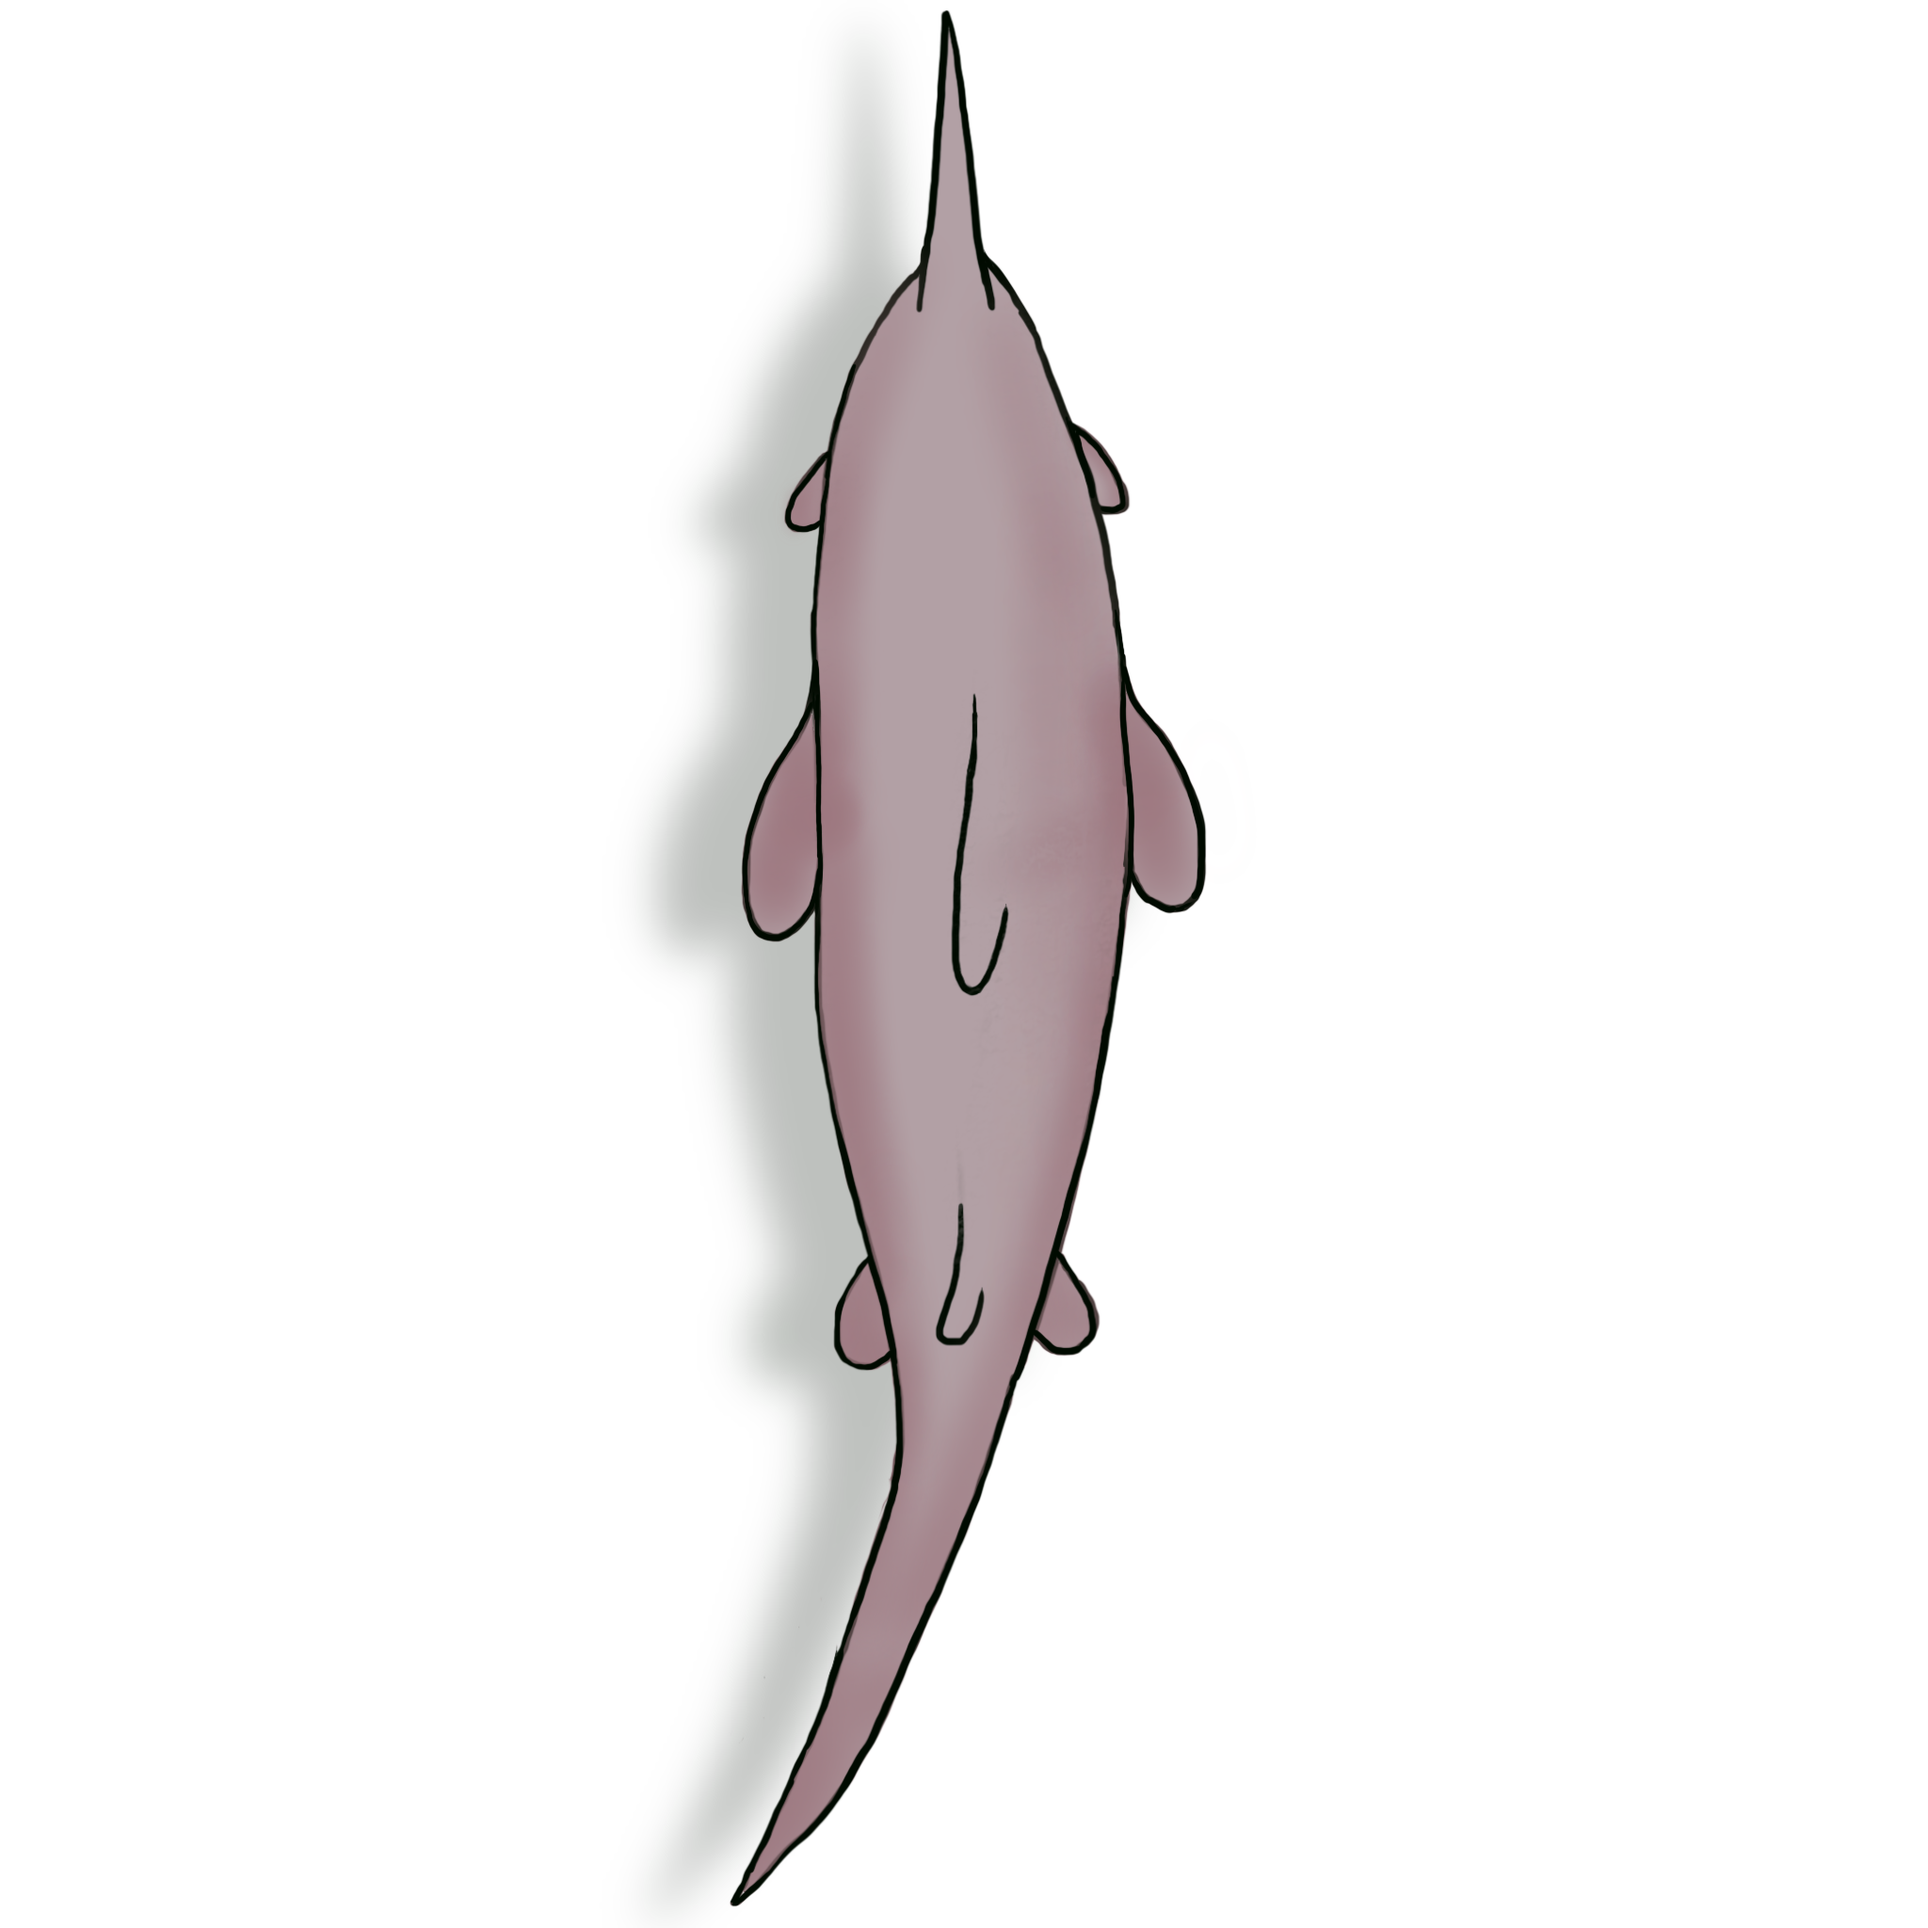
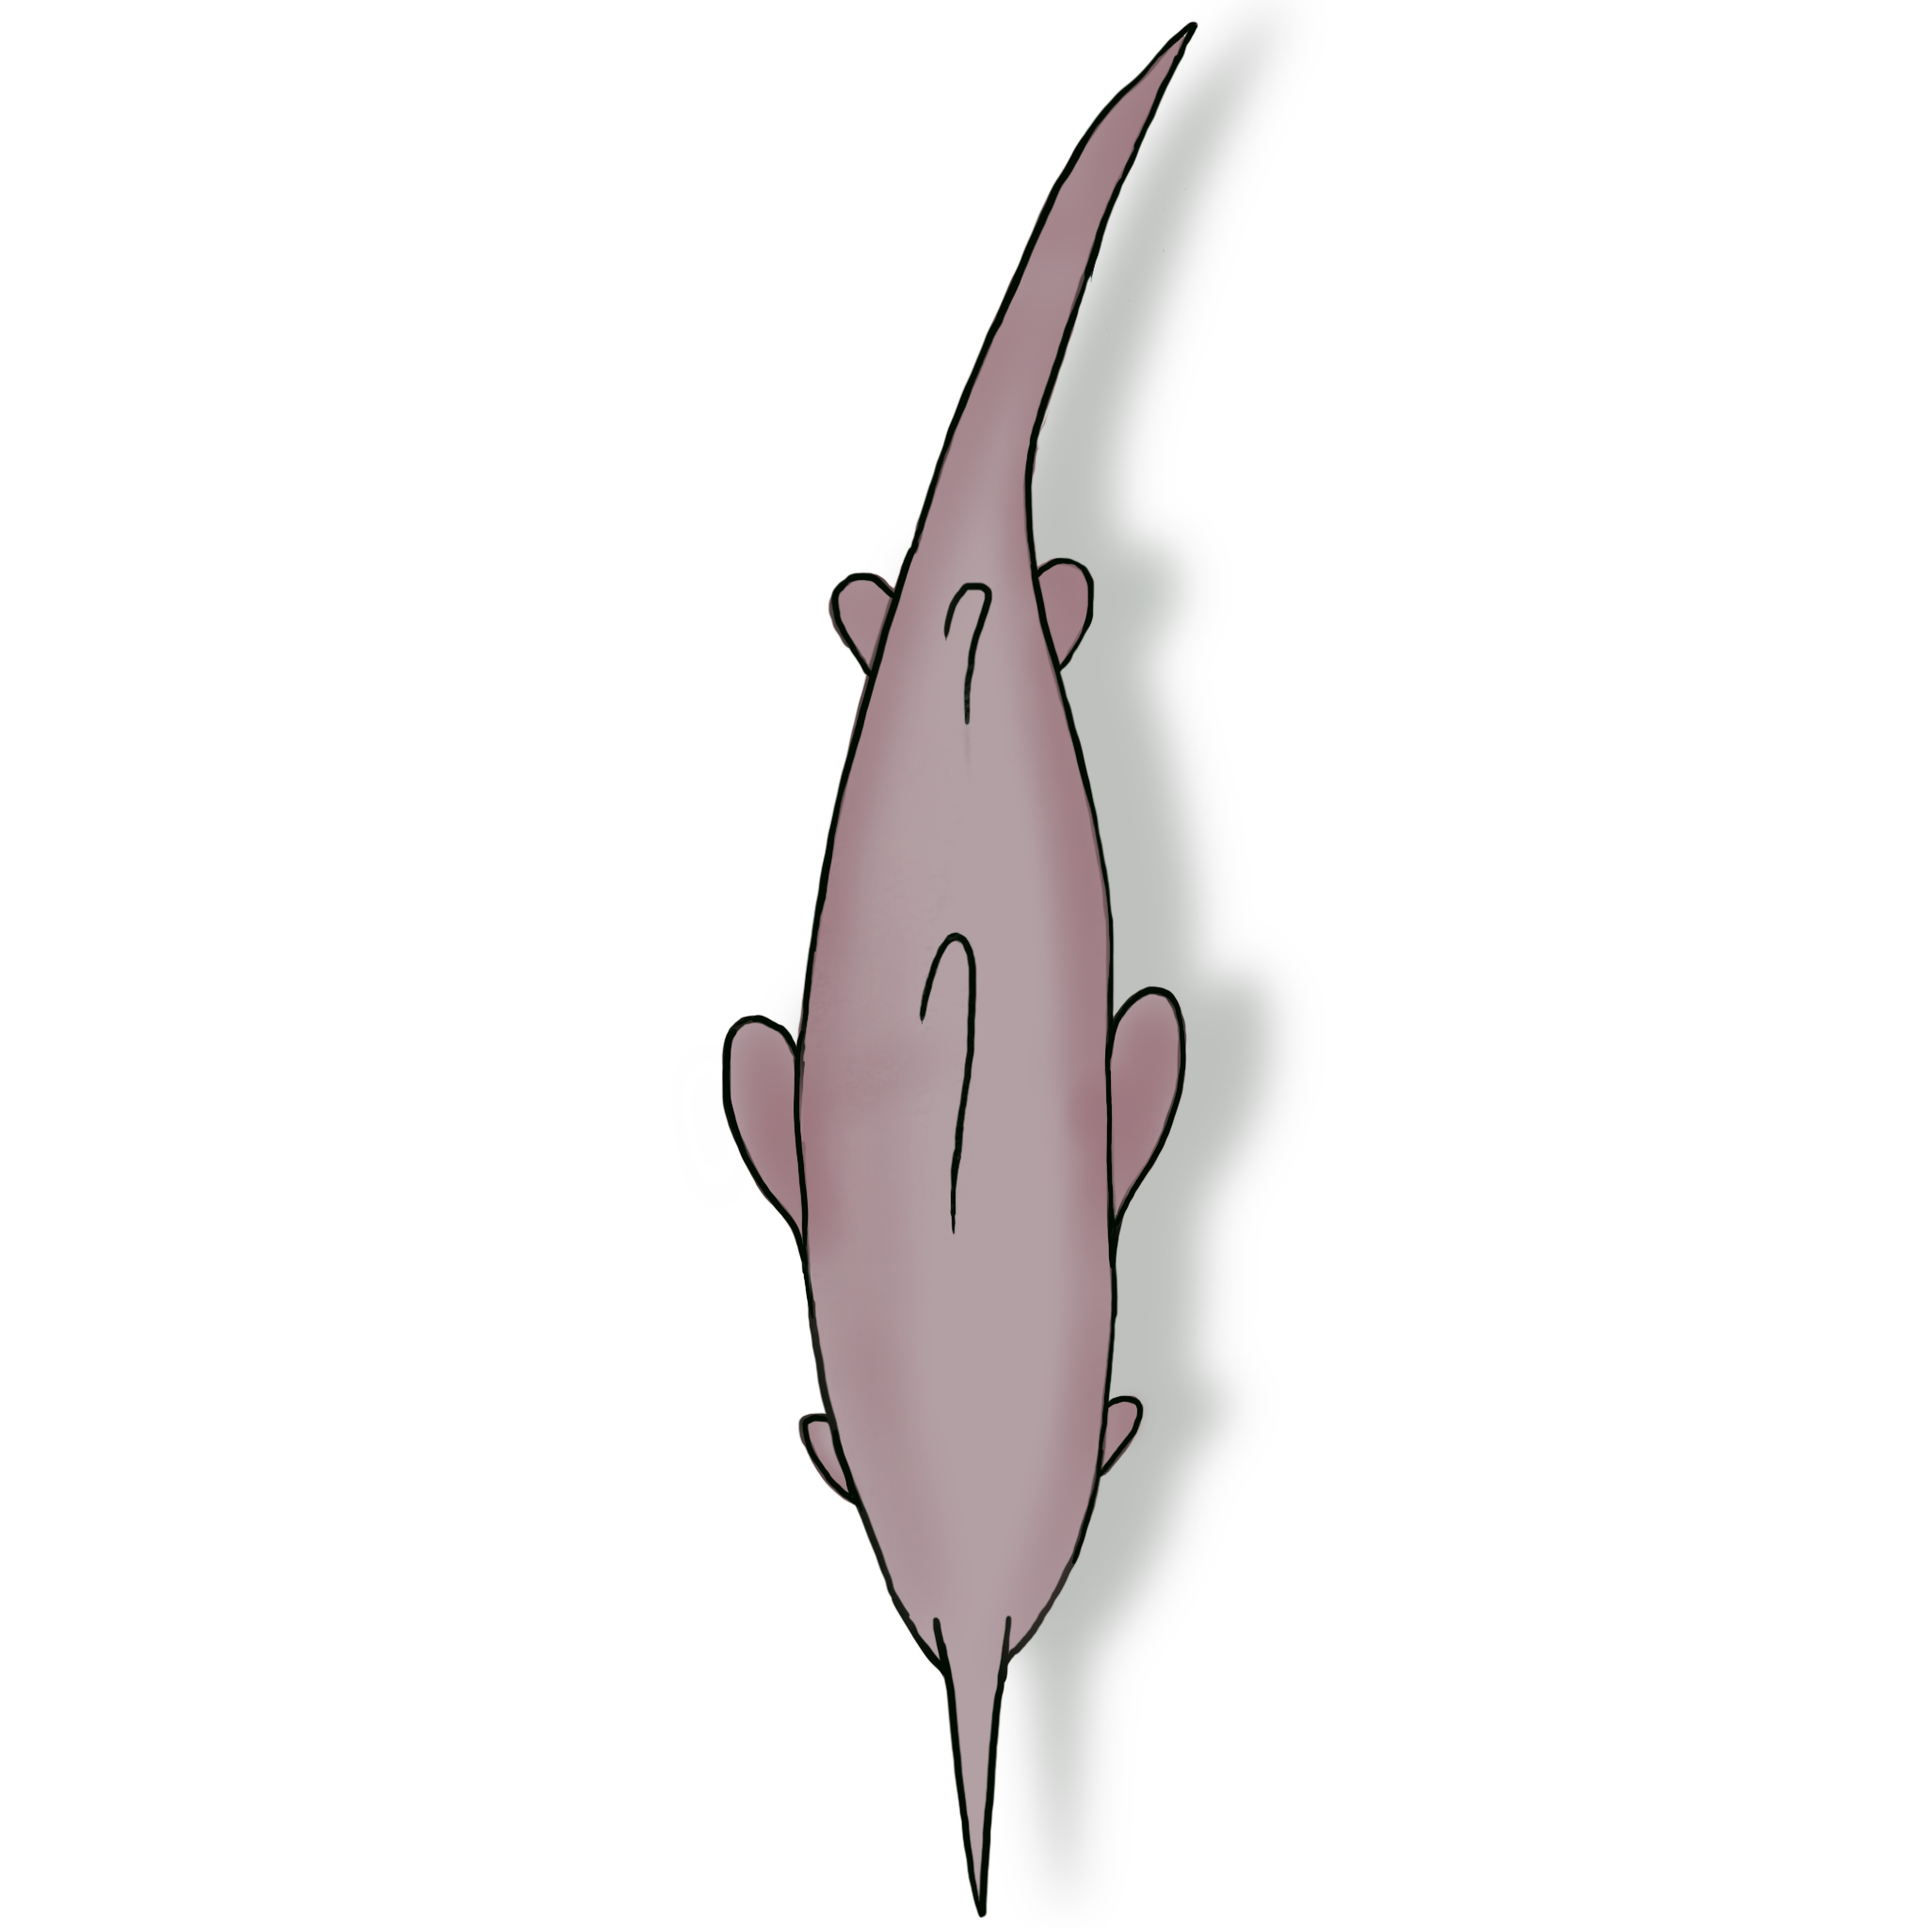
Added how to play rules and turned the sharks around

Changed region(s): [[0.3125, 0.0, 0.6875, 1.0], [0.4688, 0.4375, 0.5312, 0.5625]]

diff --git a/src/main/java/view/HowToPlay.java b/src/main/java/view/HowToPlay.java
@@ -1,13 +1,17 @@
 package main.java.view;
 
 
+import java.io.File;
+import java.io.FileNotFoundException;
+import java.util.Scanner;
+
+import javafx.geometry.Insets;
 import javafx.scene.Scene;
 import javafx.scene.control.ScrollPane;
-import javafx.scene.control.ScrollPane.ScrollBarPolicy;
-import javafx.scene.control.TextArea;
 import javafx.scene.layout.BorderPane;
 import javafx.scene.layout.VBox;
 import javafx.scene.text.Font;
+import javafx.scene.text.Text;
 import javafx.stage.Stage;
 
 /**
@@ -18,39 +22,50 @@ import javafx.stage.Stage;
 public class HowToPlay
         extends Stage {
 
+
     private final static int WIDTH = 500;
     private final static int HEIGHT = 700;
     private final static String STAGE_NAME = "How to play: Eagle vs. Shark";
+    private String howTo = "";
+    BorderPane root = new BorderPane();
 
-    public HowToPlay() {
-        draw();
+    public HowToPlay() throws FileNotFoundException {
+        drawRules();
+        initStage();
     }
 
-    private void draw() {
+    private void drawRules() throws FileNotFoundException {
+        //set the rules from .txt
+        setHowTo();
+        //Add the rules to scroll pane
+        VBox box = new VBox();
+        Text text = new Text(howTo);
+        text.setFont(Font.font("Helvetica", 14));
+        box.getChildren().add(text);
+        ScrollPane scrollPane = new ScrollPane(box);
+        scrollPane.setPadding(new Insets(20, 20, 20, 20));
+
+        root.setCenter(scrollPane);
+    }
+
+
+    private void setHowTo() throws FileNotFoundException {
+        File howToPlayFile = new File("howToPlay.txt");
+
+        Scanner input = new Scanner(howToPlayFile);
+
+        while (input.hasNextLine()) {
+            howTo += input.nextLine() + "\n";
+        }
+
+    }
+
+    private void initStage() {
         this.setWidth(WIDTH);
         this.setHeight(HEIGHT);
         this.setTitle(STAGE_NAME);
-
-        BorderPane root = new BorderPane();
-
-        //Text area
-        String howTo =
-                "EAGLE VS. SHARK\n\nHow to play:\n\nCapture more territory than the other team to win\n\nblah blah " +
-                        "blah blah";
-        TextArea textArea = new TextArea(howTo);
-        textArea.setFont(Font.font("Helvetica", 14));
-        textArea.setPrefWidth(WIDTH - 12);
-        textArea.setWrapText(true);
-        textArea.setEditable(false);
-        //Scroll pane
-        ScrollPane scrollPane = new ScrollPane(textArea);
-        scrollPane.setVbarPolicy(ScrollBarPolicy.ALWAYS);
-        scrollPane.setHbarPolicy(ScrollBarPolicy.NEVER);
-        //VBox
-        VBox vbox = new VBox(scrollPane);
-        root.setCenter(vbox);
-
         this.setScene(new Scene(root));
-
     }
+
+
 }

diff --git a/src/main/java/util/SceneManager.java b/src/main/java/util/SceneManager.java
@@ -1,5 +1,6 @@
 package main.java.util;
 
+import java.io.FileNotFoundException;
 import java.io.IOException;
 
 import javafx.application.Platform;
@@ -47,8 +48,12 @@ public class SceneManager {
         Menu eagleVsShark = new Menu("Menu");
         MenuItem howTo = new MenuItem("How to play");
         howTo.setOnAction(event -> {
-            Stage howToStage = new HowToPlay();
-            howToStage.show();
+            try {
+                Stage howToStage = new HowToPlay();
+                howToStage.show();
+            } catch (FileNotFoundException e) {
+                System.err.println("File not found");
+            }
         });
         MenuItem quit = new MenuItem("Quit");
         quit.setOnAction(event -> {

diff --git a/src/main/java/model/piece/Piece.java b/src/main/java/model/piece/Piece.java
@@ -1,9 +1,9 @@
 package main.java.model.piece;
 
-import main.java.model.move.Move;
-
 import java.util.ArrayList;
 import java.util.List;
+
+import main.java.model.move.Move;
 
 
 public abstract class Piece {
@@ -21,7 +21,7 @@ public abstract class Piece {
         allMovesList = new ArrayList<Move>();
     }
 
-    protected abstract List<Move> getAllMoves(int startRow, int startCol);
+    public abstract List<Move> getAllMoves(int startRow, int startCol);
 
     public List<Move> getMovesList(int startRow, int startCol) {
         if (allMovesList.isEmpty()) {

diff --git a/src/main/java/view/GameInfoView.java b/src/main/java/view/GameInfoView.java
@@ -114,7 +114,7 @@ public class GameInfoView
         playersTurn.setFont(TITLE);
         playersTurn.setFill(Color.PURPLE);
 
-        Text turnCountText = new Text("Turn No. " + turnCount);
+        Text turnCountText = new Text("Turn No. " + turnCount + "/20");
         turnCountText.setFont(BODY);
 
         Text sharkScoreText = new Text("Shark Score: " + decimalFormat.format(sharkScore));
